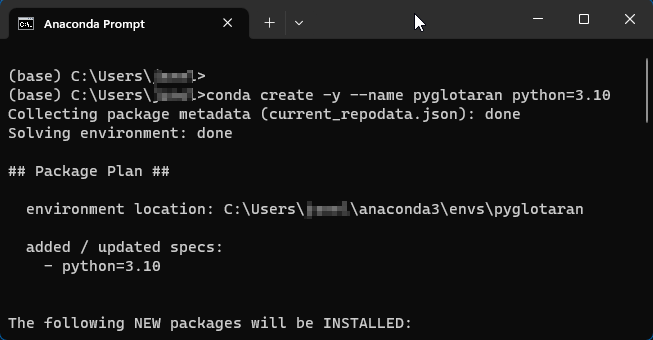
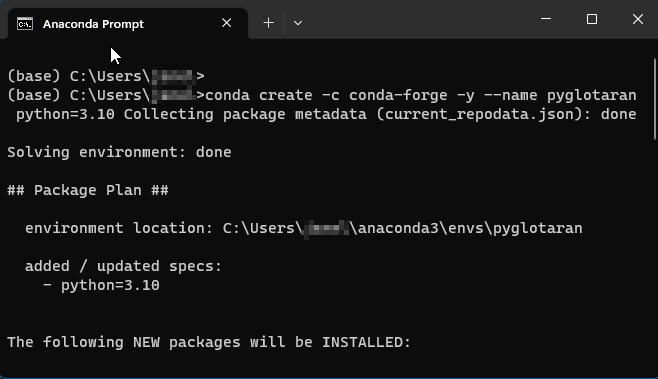
📚🩹 Fix conda env creation instructions (#13)
The conda env needs to also be created from the `conda-forge` channel or there might be ABI problems.

Avoid this issue when importing the package:
```
ImportError: DLL load failed while importing _imaging: The specified module could not be found.
```

The updated guide was tested in a clean windows VM with only anaconda installed and it works for both the conda and pip installation methods.

---------

diff --git a/README.md b/README.md
@@ -26,7 +26,7 @@ You should see a terminal windows open in the (base) environment.
 Type the following command to create a new standalone environment for pyglotaran.
 
 ```console
-conda create -y --name pyglotaran python=3.10
+conda create -c conda-forge -y --name pyglotaran python=3.10
 ```
 
 ![](./.images/AnacondaPrompt-Terminal-Windows.png)
